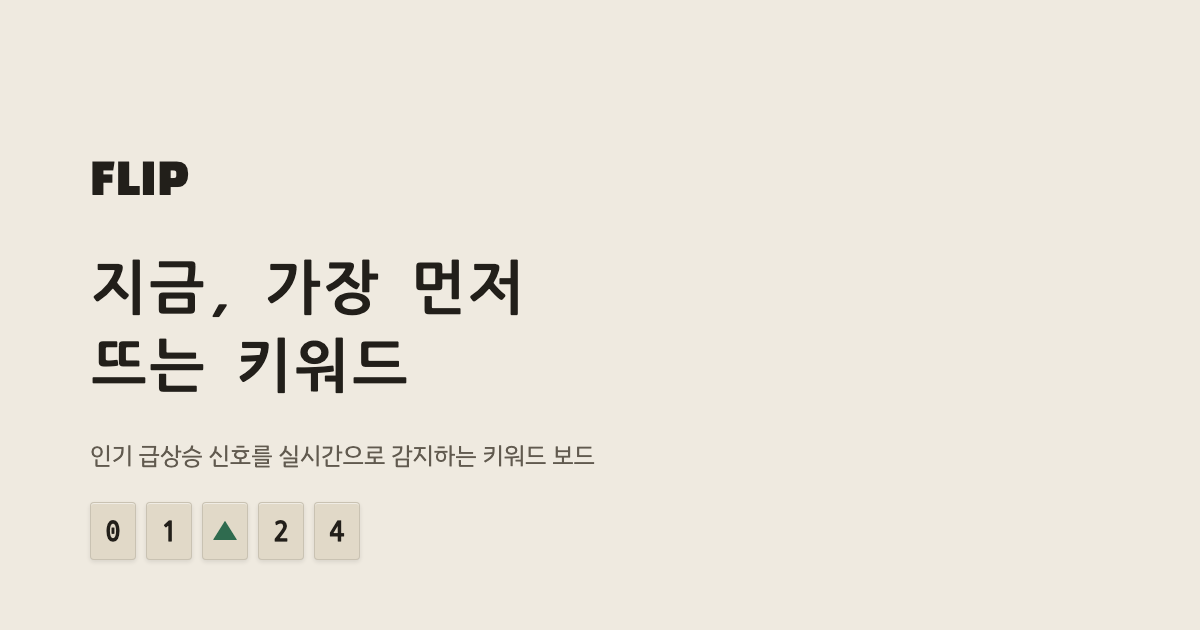
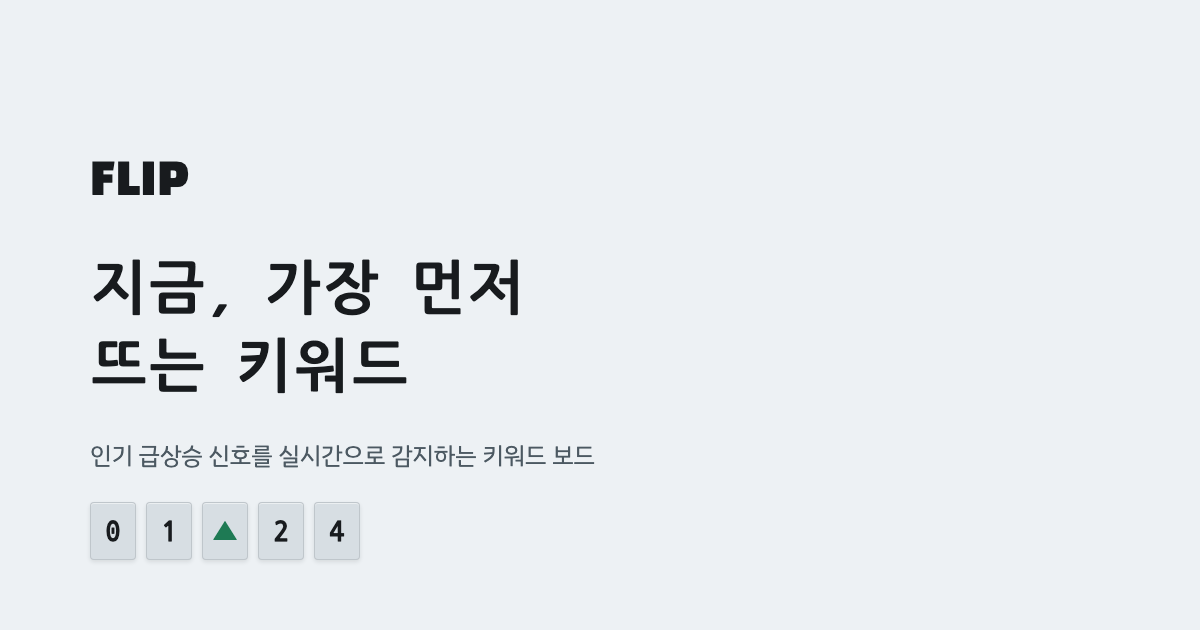
Replace beige/cream tone with cool blue-gray, not a shade tweak
Direct user feedback: "screens made with Claude all come out in that
same beige-ish color family, and I hate it." Round 9's self-critique
checked for serif and terracotta (the skill's named cliche combo) but
missed the real complaint - the cream/tan hue family itself, regardless
of what it's paired with. This round adds that as its own explicit
checklist item alongside the three default clusters, and treats it as a
hard constraint: no warm cream/beige/tan background at all, not a
lighter or desaturated version of one.

Kept the FLIP concept and the flip-clock/calendar object reference from
round 9 (still real, still grounded) but swapped the material: brushed
aluminum/steel casing instead of ivory plastic. Metal reads cooler than
plastic under neutral light, which is the physical reason for the hue
shift, not an arbitrary "avoid beige" pick. Same token names, all new
values: paper #EDF1F4, casing #D7DEE3, ink #181B1E, ink-dim #4C5962,
rising #1E7A54, falling #B23A34 - all confirmed hue ~205-206 (blue) via
HSL, nowhere near beige's ~30-50 (orange-yellow) band.

Computed WCAG contrast before writing any code (same discipline as
round 9) and caught ink-dim failing AA on casing again (4.35:1) at its
first value - darkened to 4C5962 (6.35:1 / 5.3:1, comfortable margin
everywhere).

The instruction was explicit: verify by eye early, not just reason
about hex values. Built a standalone color swatch, screenshotted it
[…]

Changed region(s): [[0.0617, 0.7841, 0.3083, 0.9048]]

diff --git a/src/app/globals.css b/src/app/globals.css
@@ -1,25 +1,27 @@
 @import "tailwindcss";
 
 /*
- * FLIP design tokens — light theme, round 9. Grounded in a different real
- * member of the same split-flap family than round 7's dark theme: a
- * consumer desktop flip clock/calendar (ivory plastic housing, printed
- * cards, dark ink), not an inverted airport departures board — those are
- * dark by physical necessity (the flap slot needs a dark backing for the
- * card to read), so a straight light/dark flip would depict an object that
- * doesn't really exist. `paper`/`casing` are the housing/card materials,
- * `ink` carries ALL text and interactive/brand color, `rising`/`falling`
- * are reserved strictly for rank-delta status (ledger-stamp green / printed
- * red-letter-day red) — never used decoratively elsewhere. See LOOP_LOG.md
- * round 9 for the full design plan, self-critique, and contrast checks.
+ * FLIP design tokens — light theme, round 10. Same object family as round 9
+ * (a consumer desktop flip clock/timer, not an inverted airport departures
+ * board — those are dark by physical necessity), but a different real
+ * material: brushed aluminum/steel casing instead of ivory plastic. Round
+ * 9's warm ivory tone tested as reading like generic "AI-cream" regardless
+ * of type/accent pairing, so this round moves the whole base tone to a cool
+ * blue-gray family instead — metal reads cooler than plastic under neutral
+ * light, which is the material reason for the shift, not an arbitrary
+ * "avoid beige" color pick. `paper`/`casing` are the housing/card
+ * materials, `ink` carries ALL text and interactive/brand color,
+ * `rising`/`falling` are reserved strictly for rank-delta status — never
+ * used decoratively elsewhere. See LOOP_LOG.md round 10 for the full plan,
+ * self-critique, and contrast checks.
  */
 :root {
-  --paper: #efeae0;
-  --casing: #e1d9c8;
-  --ink: #221f1a;
-  --ink-dim: #615a4f;
-  --rising: #2f6b4f;
-  --falling: #a23b2e;
+  --paper: #edf1f4;
+  --casing: #d7dee3;
+  --ink: #181b1e;
+  --ink-dim: #4c5962;
+  --rising: #1e7a54;
+  --falling: #b23a34;
 }
 
 @theme inline {

diff --git a/src/app/page.tsx b/src/app/page.tsx
@@ -210,7 +210,7 @@ export default function Home() {
               return (
                 <li
                   key={item.rank}
-                  className="flap-row flex items-center gap-3 rounded-sm border border-ink-dim/10 bg-casing px-3 py-2.5 shadow-[0_1px_0_rgba(255,255,255,0.5)_inset,0_1px_2px_rgba(34,31,26,0.08)]"
+                  className="flap-row flex items-center gap-3 rounded-sm border border-ink-dim/10 bg-casing px-3 py-2.5 shadow-[0_1px_0_rgba(255,255,255,0.5)_inset,0_1px_2px_rgba(24,27,30,0.08)]"
                   style={{ animationDelay: `${Math.min(i, 20) * 30}ms` }}
                 >
                   <span className="w-6 text-right font-data text-base font-bold text-ink-dim">

diff --git a/src/components/AuthModal.tsx b/src/components/AuthModal.tsx
@@ -48,7 +48,7 @@ export function AuthModal({ open, error, onClose, onSignIn, onSignUp }: AuthModa
       <form
         onClick={(e) => e.stopPropagation()}
         onSubmit={handleSubmit}
-        className="w-full max-w-sm rounded-sm border border-ink-dim/20 bg-casing p-6 shadow-[0_1px_0_rgba(255,255,255,0.6)_inset,0_10px_24px_rgba(34,31,26,0.15)]"
+        className="w-full max-w-sm rounded-sm border border-ink-dim/20 bg-casing p-6 shadow-[0_1px_0_rgba(255,255,255,0.6)_inset,0_10px_24px_rgba(24,27,30,0.15)]"
       >
         <div className="mb-6 flex items-center justify-between">
           <h2 className="font-display text-xl text-ink">

diff --git a/src/components/KeywordDetailModal.tsx b/src/components/KeywordDetailModal.tsx
@@ -31,7 +31,7 @@ export function KeywordDetailModal({ keyword, regionLabel, history, onClose }: K
     >
       <div
         onClick={(e) => e.stopPropagation()}
-        className="w-full max-w-lg rounded-sm border border-ink-dim/20 bg-casing p-6 shadow-[0_1px_0_rgba(255,255,255,0.6)_inset,0_10px_24px_rgba(34,31,26,0.15)]"
+        className="w-full max-w-lg rounded-sm border border-ink-dim/20 bg-casing p-6 shadow-[0_1px_0_rgba(255,255,255,0.6)_inset,0_10px_24px_rgba(24,27,30,0.15)]"
       >
         <div className="mb-1 flex items-start justify-between gap-4">
           <div className="min-w-0">
